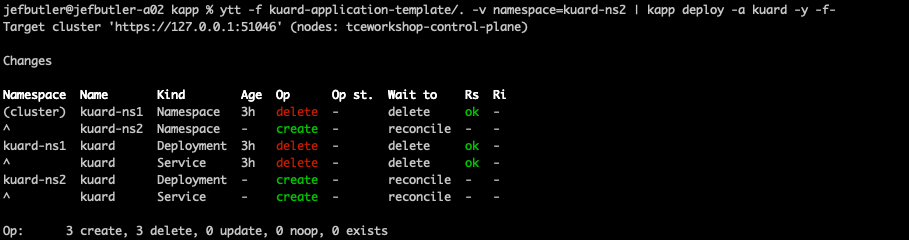
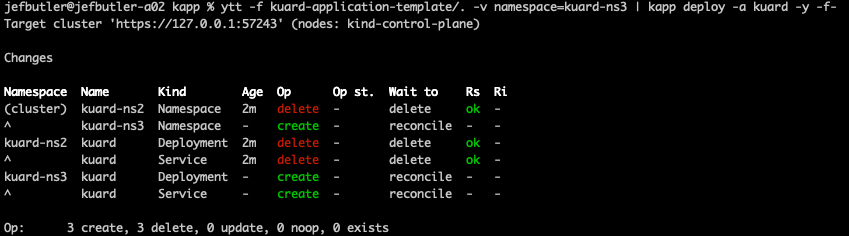
Edits

diff --git a/secretgen-controller/README.md b/secretgen-controller/README.md
@@ -17,41 +17,31 @@ requires the secretgen-controller to be installed!
 
 Full details about the secretgen-controller are here: https://github.com/vmware-tanzu/carvel-secretgen-controller
 
-**Important:** We will not use the secretgen-controller in this workshop, so you can safely skip this section. Using the
+Note that we will not use the secretgen-controller in this workshop, so you can safely skip this section. Using the
 secretgen-controller is useful if you want to set up different namespaces for different developers.
 
-## Installing the Secretgen-Controller
-
-The Secretgen-Controller is pre-installed in all Tanzu clusters. You can verify the installation in a few ways:
-
-1. `tanzu package installed list -A` should show the secretgen-controller package installed (likely in the tkg-system namespace)
-1. `kapp list -A` should show an application named "secregen-controller-ctrl"
-1. `kctrl app list -A` should show an application named "secregen-controller"
-1. `kubectl get all -n secretgen-controller` should will show several items installed if the secretgen-controller was installed
-   manually with the defaults
-
-(If you are not familiar with the "kapp" and "kctrl" commands, don't worry - we will cover them later)
-
-If the secretgen-controller is not already installed in your cluster, you can easily install it with one of the following commands:
+**Important:** Open a terminal window in the "secretgen-controller" directory in this repository
+before proceeding:
 
 ```shell
-kapp deploy -a secretgen-controller -f https://github.com/vmware-tanzu/carvel-secretgen-controller/releases/latest/download/release.yml
-```
-
-```shell
-kubectl create -f https://github.com/vmware-tanzu/carvel-secretgen-controller/releases/latest/download/release.yml
-```
-
-Once the system reconciles, you should see items in the secretgen-controller namespace:
-
-```shell
-kubectl get all -n secretgen-controller
+cd secretgen-controller
 ```
 
 ## Basics of secretgen-controller
 
-The secretgen-controller adds several CRDs to your cluster. For our purposes, we are interested in two of them:
-`SecretExport` and `SecretImport`.
+The secretgen-controller adds several CRDs to your cluster. You can see them with the following
+commands:
+
+```shell
+kubectl api-resources --api-group=secretgen.carvel.dev
+```
+
+```shell
+kubectl api-resources --api-group=secretgen.k14s.io
+```
+
+For our purposes, we are interested in two of them: `SecretExport` and `SecretImport` in the
+`secretgen.carvel.dev/v1alpha1` API group.
 
 A `SecretExport` is used to offer secrets in one namespace to other or all namespaces. For example, suppose
 we create the following secret in the default namespace:
@@ -74,6 +64,10 @@ spec:
   toNamespace: '*' # we can also specify a specific namespace, or a list of namespaces
 ```
 
+```shell
+kubectl apply -f SecretExport.yaml
+```
+
 At this point nothing has been shared. To share the secret we create a `SecretImport` in another namespace. For
 example, create a namespace called `ns2`:
 
@@ -93,10 +87,16 @@ spec:
   fromNamespace: default
 ```
 
-When the `SecretImport` in `ns2` reconciles, there will also be a copy of the secret from the `default` namespace.
+When the `SecretImport` in `ns2` reconciles, there will also be a copy of the secret from the `default` namespace. You
+can see it with the following command:
+
+```shell
+kubectl get secrets -n ns2
+```
+
 If the secret changes in the `default` namespace, then the secret in `ns2` will be updated by the operator. If you delete
-the `SecretImport` in `ns2`, the corresponding secret will also be deleted. If you delete the secret in the `default` namespace,
-the secret in the `ns2` namespace will also be deleted (the `SecretExport` and `SecretImport` will remain).
+the `SecretImport` in `ns2`, the corresponding secret will also be deleted. If you delete the secret in the `default`
+namespace, the secret in the `ns2` namespace will also be deleted (the `SecretExport` and `SecretImport` will remain).
 
 ## Secrets and the Tanzu CLI
 
@@ -115,7 +115,7 @@ tanzu secret registry add another-secret \
 You can see the `SecretExport` with this command:
 
 ```shell
-kubectl get SecretExports.secretgen.carvel.dev
+kubectl get SecretExports
 ```
 
 You will still need to create the `SecretImport` in the other namespaces using regular kubectl commands as shown above.

diff --git a/kapp-controller/README.md b/kapp-controller/README.md
@@ -17,6 +17,12 @@ Full details about the Kapp controller are here: https://carvel.dev/kapp-control
 The kapp-controller also has an associated CLI called "kctrl" that can interact with the kapp-controller installed in a
 cluster.
 
+**Important:** Open a terminal window in the "kapp-controller" directory in this repository before proceeding:
+
+```shell
+cd ../kapp-controller
+```
+
 ## Running Kapp in a Cluster
 
 The kapp-controller runs kapp in a cluster. But what does that mean exactly?
@@ -137,13 +143,13 @@ kapp deploy -a kapp-controller-simple-example -f rbac.yaml -f simple-example.yam
 
 The kapp-controller runs kapp, so we would expect the kapp CLI to work on applications deployed through the kapp-controller.
 And it does. The only caveat is that the application name is not what you might expect. In the example above, we created
-an App resource names "kuard-kapp". If you do "kapp list" you will see that the application name is "kuard-kapp-ctrl". The
-kapp-controller appends "-ctrl" to all the application names it creates.
+an App resource names "kuard-kapp". If you do "kapp list" you will see that the application name is "kuard-kapp.app". The
+kapp-controller appends ".app" to all the application names it creates.
 
 Once you know that, you can use any kapp CLI command. For example:
 
 ```shell
-kapp logs -a kuard-kapp-ctrl
+kapp logs -a kuard-kapp.app
 ```
 
 ## Working With the kctrl CLI
@@ -194,7 +200,7 @@ kapp-controller. It has the following characteristics:
    ```yaml
    #@data/values
    ---
-   namespace: kuard-app-ns
+   namespace: kuard-ns4
    replicas: 3
    ```
 3. The kapp-controller is configured to run both ytt and kbld on the input files before deploying the application with kapp
@@ -209,7 +215,7 @@ Note that the rbac.yaml file isn't necessary if you haven't deleted the previous
 you will see the deployment in the "kuard-app-ns" namespace:
 
 ```shell
-kubectl get all -n kuard-app-ns
+kubectl get all -n kuard-ns4
 ```
 
 If you want to experiment with this, then we suggest you change the Git reference to a repo where you can commit. Then
@@ -223,7 +229,7 @@ kapp delete -a kapp-controller-simple-example
 ```
 
 ```shell
-kctrl app delete kuard-kapp-gitops
+kapp delete -a kuard-kapp-gitops.app
 ```
 
 [Next (Kapp-Controller Packaging) -&gt;](../kapp-packaging/README.md)

diff --git a/kapp/README.md b/kapp/README.md
@@ -14,6 +14,12 @@ separate exercise.
 
 Full details about the Kapp CLI are here: https://carvel.dev/kapp/
 
+**Important:** Open a terminal window in the "kapp" directory in this repository before proceeding:
+
+```shell
+cd ../kapp
+```
+
 ## Creating a Kubernetes Application
 
 Suppose we want to install an application and make it available on our cluster. This might involve the
@@ -159,7 +165,7 @@ kapp delete -a kuard
 ## Combining Kapp and YTT
 
 In the directory [kuard-application-template](kuard-application-template/) there is a set of ytt templates for the same kuard application.
-The templates accept two values: "namespaces" and "replicas" with defaults "kuard-ns1" and "2" respectively. Note that the replicas value
+The templates accept two values: "namespaces" and "replicas" with defaults "kuard-ns2" and "2" respectively. Note that the replicas value
 is an integer - this will need some special care when calling ytt.
 
 We can combine ytt and kapp to deploy or change the application as needed. When we pipe ytt output into kapp, we need to specify
@@ -189,10 +195,10 @@ that change reconciles.
 Now let's try something more complex - let's change the namespace:
 
 ```shell
-ytt -f kuard-application-template/. -v namespace=kuard-ns2 | kapp deploy -a kuard -y -f-
+ytt -f kuard-application-template/. -v namespace=kuard-ns3 | kapp deploy -a kuard -y -f-
 ```
 
-Kapp reconciles this change by deleting the old namespace "kuard-ns1" and recreating everything in the new namespace "kuard-ns2".
+Kapp reconciles this change by deleting the old namespace "kuard-ns2" and recreating everything in the new namespace "kuard-ns3".
 
 ![kapp change namespace with ytt](images/kapp-ytt-namespace.png)
 

diff --git a/ytt/README.md b/ytt/README.md
@@ -23,6 +23,12 @@ Full details about YTT are here: https://carvel.dev/ytt/. That page also include
 can be very helpful when learning more about YTT. You can access the playground directly
 here: https://carvel.dev/ytt/#playground
 
+**Important:** Open a terminal window in the "ytt" directory in this repository before proceeding:
+
+```shell
+cd ../ytt
+```
+
 ## Simple Example
 Here is a simple example. Suppose we have a YAML file named `MyName.yaml` like this:
 

diff --git a/kbld/README.md b/kbld/README.md
@@ -10,6 +10,12 @@ Carvel tool: [imgpkg](https://carvel.dev/imgpkg/).
 
 Full details about kbld are here: https://carvel.dev/kbld/
 
+**Important:** Open a terminal window in the "kbld" directory in this repository before proceeding:
+
+```shell
+cd ../kbld
+```
+
 ## Image Building
 
 Kbld can orchestrate image builds for local development. This can be useful if you are doing Dockerfile or Pack
